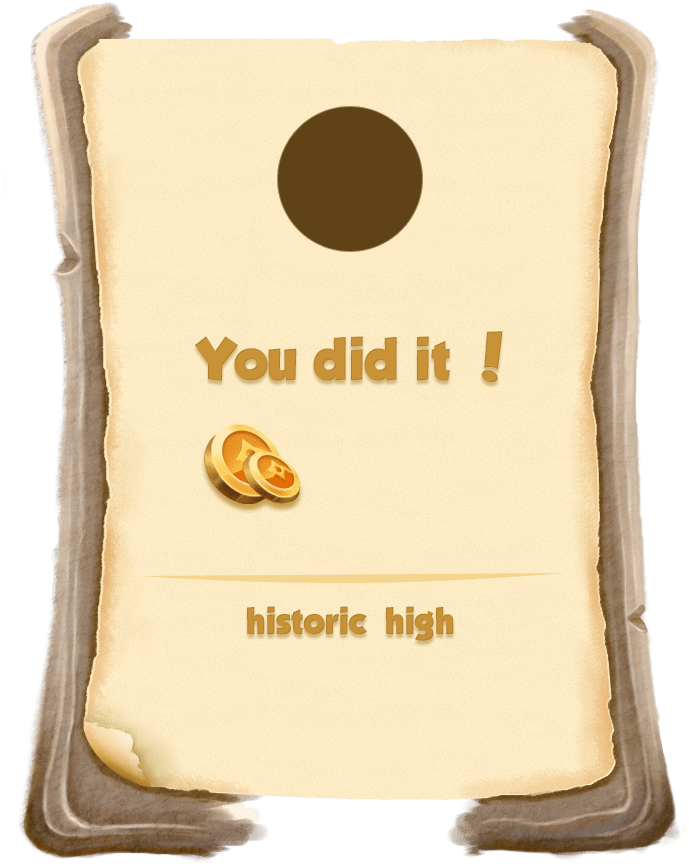
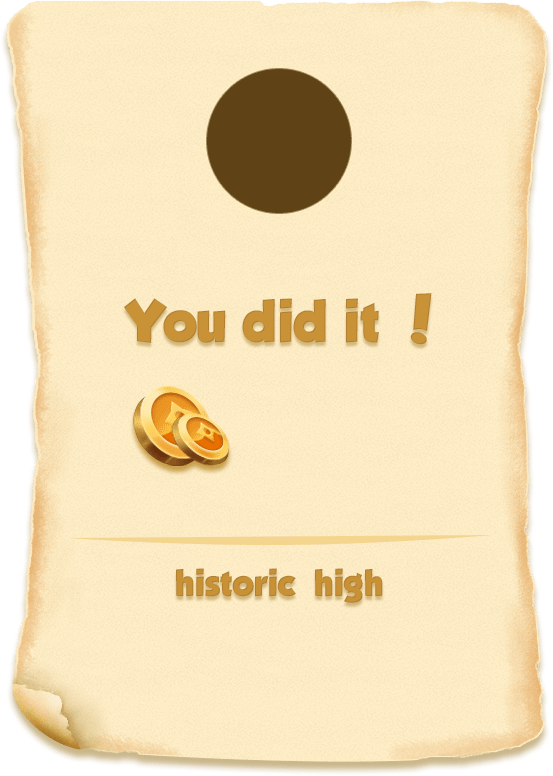
baNls

diff --git a/js/sprites/gameover.js b/js/sprites/gameover.js
@@ -14,9 +14,9 @@ let bg = new Sprite({
 // 游戏结束页面的Sprite
 let winScoreDesk = new Sprite({
   imgSrc: `${iconPath}win-score/desk.png`,
-  x: screenWidth * 0.03, y: -screenHeight * 0.76,
-  width: screenWidth * 0.94,
-  height: screenHeight *  0.6,
+  x: screenWidth * 0.12, y: -screenHeight * 0.735,
+  width: screenWidth * 0.77,
+  height: screenHeight *  0.545,
 })
 let winScoreNum = [...Array(10)].map((el, index) => {
   return new Sprite({
@@ -33,6 +33,12 @@ let winHistoryNum = [...Array(10)].map((el, index) => {
   })
 })
 // 共用的Sprite
+let stoneDesk = new Sprite({
+  imgSrc: `${iconPath}stone-desk.png`,
+  x: screenWidth * 0.03, y: -screenHeight * 0.76,
+  width: screenWidth * 0.94,
+  height: screenHeight *  0.6,
+})
 let button = new Sprite({
   imgSrc: `${iconPath}button.png`,
   x: screenWidth * 0.5 - 342 / scallingRatio / 2, 
@@ -49,25 +55,31 @@ let rankBtn = new Sprite({
   imgSrc: `${iconPath}ranking.png`,
   width: screenWidth * 0.35 , height: 106 / 263 * screenWidth * 0.35,
   x: screenWidth * 0.51,
-  y: -screenHeight * 0.78
+  y: -screenHeight * 0.785
 })
 let rankBtnA = new Sprite({
   imgSrc: `${iconPath}ranking-A.png`,
   width: screenWidth * 0.35 , height: 106 / 263 * screenWidth * 0.35,
   x: screenWidth * 0.51,
-  y: -screenHeight * 0.78
+  y: -screenHeight * 0.785
 })
 let scoreBtn = new Sprite({
   imgSrc: `${iconPath}score.png`,
   width: screenWidth * 0.35 , height: 106 / 263 * screenWidth * 0.35,
   x: screenWidth * 0.17,
-  y: -screenHeight * 0.78
+  y: -screenHeight * 0.785
 })
 let scoreBtnA = new Sprite({
   imgSrc: `${iconPath}score-A.png`,
   width: screenWidth * 0.35 , height: 106 / 263 * screenWidth * 0.35,
   x: screenWidth * 0.17,
-  y: -screenHeight * 0.78
+  y: -screenHeight * 0.785
+})
+
+let userAvator = new UserAvator({
+  width: screenHeight * 0.12, height: screenHeight * 0.12,
+  x: screenWidth * 0.51 - screenHeight * 0.06,
+  y: -screenHeight * 0.7
 })
 
 
@@ -79,12 +91,17 @@ export default class Pause {
     this.isStoped = false
 
     this.bg = bg
+    this.stoneDesk = stoneDesk
     this.winScoreDesk = winScoreDesk
     this.winScoreNum = winScoreNum
     this.winHistoryNum = winHistoryNum
     this.button = button
+    this.userAvator = userAvator
 
-    this.userAvator = new UserAvator()
+    this.rankBtn = rankBtn
+    this.rankBtnA =rankBtnA
+    this.scoreBtnA = scoreBtnA
+    this.scoreBtn = scoreBtn
 
     this.winScoreNumStartX = this.winScoreNum[0].x
     this.winHistoryNumStartX = this.winHistoryNum[0].x
@@ -99,6 +116,8 @@ export default class Pause {
    */
   drawWinScore(ctx = this.ctx) {
     this.bg.draw(ctx)
+    this.stoneDesk.draw(ctx)
+    this.rankBtn.draw(ctx)
     this.winScoreDesk.draw(ctx);
 
     `${this.score}`.split('').forEach((el, index) => {
@@ -115,8 +134,7 @@ export default class Pause {
     
     this.button.draw(ctx)
 
-    rankBtn.draw(ctx)
-    scoreBtnA.draw(ctx)
+    this.scoreBtnA.draw(ctx)
     this.userAvator.drawCicle(ctx)
   }
 }

diff --git a/js/sprites/public/user-avator.js b/js/sprites/public/user-avator.js
@@ -1,18 +1,23 @@
 import Sprite from '../../interfaces/sprite'
 
+
+
+
+
 export default class userAvator extends Sprite {
   constructor(obj) {
 
     let sprObj = Object.assign(
-            { imgSrc: 'images/gameover/default-ava.png',
-              width: screenWidth * 0.3, height: screenWidth * 0.3,
-              x: screenWidth * 0.35,
-              y: -screenHeight * 0.6 }
+            { imgSrc: 'images/gameover/default-ava.png' }
             , obj )
     
     super(sprObj)
 
     this.isLoaded = false
+
+    this.border = new Sprite( Object.assign(sprObj, {
+      imgSrc: 'images/gameover/border.png'
+    }))
 
     this.listenLoaded()
   }
@@ -27,25 +32,42 @@ export default class userAvator extends Sprite {
       setTimeout(this.listenLoaded.bind(this), 100)
   }
 
-  // 因为绘制头像都是绘制圆的，所以此处定义了一个画圆的方法
-  // 参考链接：https://www.jianshu.com/p/9a6ee2648d6f
-  drawCicle(ctx) {
-
-    ctx.save()
-
-    ctx.arc(  this.x + this.width / 2,
-              this.y + this.height / 2,
-              this.width / 2,
-              0,
-              Math.PI * 2 )
-
-    ctx.clip()
-
-    ctx.fill()
+  drawCicle(ctx = this.ctx) {
     
     this.draw(ctx)
 
-    ctx.restore()
+    this.border.draw(ctx)
+
+
+
+
+    /**
+     * 下面的注释是利用clip实现的图片变圆
+     * 因为性能问题而ban了
+     */
+
+    // 因为绘制头像都是绘制圆的，所以此处定义了一个画圆的方法
+    // 参考链接：https://www.jianshu.com/p/9a6ee2648d6f
+    // ctx.save()
+
+    // ctx.arc(  this.x + this.width / 2,
+    //           this.y + this.height / 2,
+    //           this.width / 2,
+    //           0,
+    //           Math.PI * 2 )
+
+    // ctx.clip()
+    
+    // ctx.drawImage(  this.img,
+    //                 this.x,
+    //                 this.y,
+    //                 this.width,
+    //                 this.height )
+
+    // ctx.strokeStyle = '#9F8858'
+    // ctx.stroke()
+
+    // ctx.restore()
   }
 }
 
